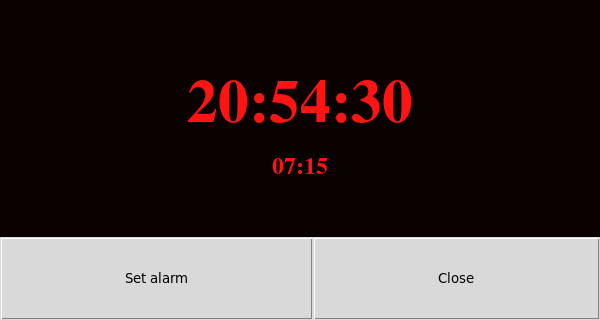
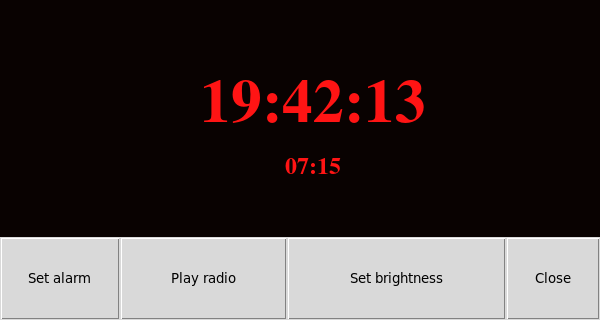
Updated README

diff --git a/config_readme.md b/config_readme.md
@@ -1,6 +1,6 @@
 
 ## Alarm configuration
-Alarm contents can be configured by editing `alarmpi.config`file.
+Alarm content can be configured by editing `alarmpi.config`.
 The file specifies which components of the alarm are enabled and which text-to-speech (TTS) engine should be used, if any.
 
 ### alarm.config description
@@ -19,7 +19,7 @@ The file specifies which components of the alarm are enabled and which text-to-s
    http://woeid.rosselliot.co.nz/ for WOEID codes.  
 
 
-**Note:** content sections are parsed in the order they appear in the configuration. Therefore greeting should come first.
+**Note:** content sections are parsed in the order they appear in the configuration. Therefore the greeting should come first.
 
 
 #### TTS engines  
@@ -40,14 +40,14 @@ Festival is a general purpose TTS system. Does not require an internet access an
 
 
 **Notes:**
- * the first TTS engine is used even if several are enabled. If all TTS engines are disabled but **readaloud=1** is set, Festival will be used.
-
+ * If more than one TTS engine are enabled, the first will be used.
+ * If all TTS engines are disabled but **readaloud=1** is set, Festival will be used.
  * If **readaloud** is disabled, a beeping sound effect will be played.
 
 **[radio]**  
-Determines the url to the radio stream. Uses `mplayer` system package. The stream is played after all TTS content has been processed. The `timeout` option can be used to specify a time in seconds after which the stream should close.
+Determines the url to the radio stream. Uses the `mplayer` command line movie player to play the stream. The stream is played after all TTS content has been processed and is diabled if no url is provided.
 
-**Note:** If the radio is enabled and the alarm is run via cron, the stream cannot be keyboard interrupted via `Ctr-c` and will play indefinitely by default. Either use the provided `stop.sh` script to kill the alarm (and the stream) or consider setting a `timeout`.
+**Note:** If the radio is enabled and the alarm is run via cron, the stream has to be stopped by terminating the `mplayer` process. Use the provided `stop.sh` script to kill the alarm (and the stream).
 
 ### Using a custom configuration
 You can either modify the provided configuration file `alarm.config` or create a new file and pass that to `sound_the_alarm.py` and `main.py` via a command line argument. To re-create the original configuration file, use the `--init-config` switch.
@@ -65,26 +65,13 @@ Extending the alarm with you're own content is simple:
         self.content = "Text-to-Speech content goes here"
  ```
 
- See any of the existing handlers for reference.
+ See any of the existing handlers for reference. Note that `sound_the_alarm.py` tries to import the first class (in alphabetical order) from each handler. Therefore, your handler should be a single class.
 
- 2. Register the path to your handler in `sound_the_alarm.py`:
- ```
- handler_map = {
-     "get_gcp_tts": "GoogleCloudTTS",
-     "get_google_translate_tts": "GoogleTranslateTTSManager",
-     "get_festival_tts": "FestivalTTSManager",
-     "get_greeting": "Greeting",
-     "get_bbc_news": "NewsParser",
-     "get_yahoo_weather": "YahooWeatherClient",
-     "my_new_module": "my_new_class"
- }
- ```
+ 2. Set the `handler` option in the configuration file to your new handler without the folder name.
 
- 3. Set the `handler` option in the configuration file to your new handler without the folder name.
+ 3. Set `type=content` and `enabled=1` in the configuration.
 
- 4. Set `type=content` and `enabled=1` in the configuration.
-
-Adding a new TTS engine can be done simialrly:
+Adding a new TTS engine can be done similarly:
 
  1. Write the handler. It should should subclass `aptts.AlarmpiTTS` and implement the `play` method.
 

diff --git a/README.md b/README.md
@@ -40,6 +40,7 @@ This is a fork of skiwithpete's alarmpi project: https://github.com/skiwithpete/
 The GUI for the clock is rather primitive due to hardware limitations: I build this project to run on a Raspberry Pi together with the official touch screen display as the only input device. Since Raspbian is not a touch screen OS, its support is limited to emulating mouse clicks. The alarm is therefore set using a binary based toggles for hour and minute.
 
 ![Main window](resources/clock_main.png)
+
 ![schedule window](resources/clock_schedule.png)
 
 
@@ -97,9 +98,11 @@ or
 python sound_the_alarm.py [path/to/configuration/file]
 ```
 
-The first form open the GUI for displaying current time and scheduling the alarm. In a headless Raspberry Pi environment this will fail since Tkinter cannot be imported. Instead, use the second form to play the alarm directly and add a cron entry manually to schedule it.
+The first form opens the GUI for displaying current time and scheduling the alarm. The GUI also contains buttons for turning radio stream on and off and setting screen brightness between high and low. These options have additional conditions. The radio button is only enabled when a url to a radio stream is set in the configuration file. The brightness button only works with the official Raspberry Pi touchscreen display as it works by writing a new brightness value to `/sys/class/backlight/rpi_backlight/brightness`. This buttons will be disabled if the file does exist.
 
-In either case, scheduling an alarm is done by adding a new cron entry to `sound_the_alarm.py`. This means that when scheduled, the alarm will play regardless of whether the GUI is running or not!
+In a headless Raspberry Pi environment running the GUI will fail since Tkinter cannot be imported. Instead, use the second form to play the alarm directly and add a cron entry manually to schedule it.
+
+In either case, scheduling an alarm is done by adding a new cron entry to `sound_the_alarm.py`. This means that when scheduled, the alarm will play regardless of whether the GUI is running or not! Note that if a radio stream is enabled and the alarm is run without the GUI, the stream has to be stopped by terminating the `mplayer` process running it. This can be done with the included `stop.sh` shell script. When using the GUI, closing the main window will also stop any active radio streams.
 
 The optional argument in both forms is a path to a configuration file for customizing the alarm, see [config_readme.md](./config_readme.md) for instructions. By default `alarm.config` will be used.
 
